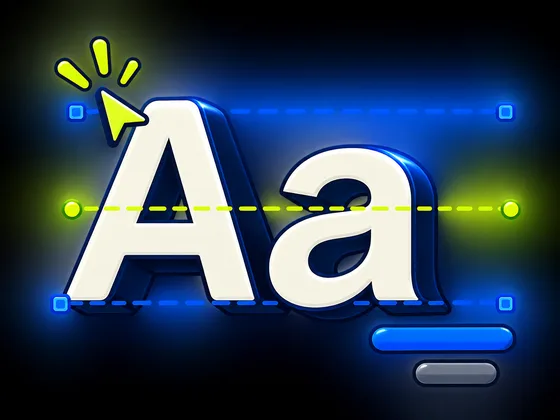
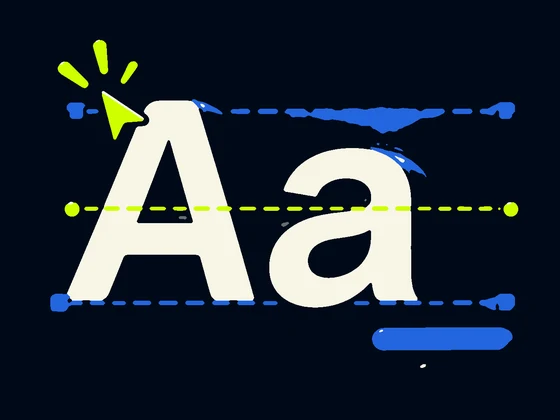
Deploy: sync site from workspace @ f68a3df

diff --git a/branding.html b/branding.html
@@ -228,13 +228,19 @@
              every one: the h3 underneath already names the thing, so a caption
              here would just be read twice. Exported at 4:3 to match .art's
              aspect-ratio, so nothing is cropped in the browser. -->
+        <!-- Supplied art, flattened here to the brand palette: it arrived
+             with 3D bevels and specular highlights that read as glossy
+             against a flat site. Every pixel is snapped to one of the six,
+             with the bloom around each shape dropped to ground, so nothing
+             is left but flat colour. Card 2 kept its drawn SVG — its bars
+             share a glow and fuse into one mass when flattened. -->
         <div class="art"><img src="assets/sys-voice.webp" width="560" height="420" loading="lazy" decoding="async" alt=""></div>
         <h3>1. Brand voice</h3>
         <p>The words that sound like you. Tone, personality and key messages &mdash; clear, consistent and unmistakably yours.</p>
       </article>
 
       <article class="scard">
-        <div class="art"><img src="assets/sys-palette.webp" width="560" height="420" loading="lazy" decoding="async" alt=""></div>
+        <div class="art"><svg viewBox="0 0 160 120" aria-hidden="true"><rect width="160" height="120" fill="#000A18"/><rect x="22" y="22" width="26" height="76" rx="4" fill="#050E1F" stroke="#2365DE" stroke-width="1.5"/><rect x="53" y="22" width="26" height="76" rx="4" fill="#2365DE"/><rect x="84" y="22" width="26" height="76" rx="4" fill="#CEFF00"/><rect x="115" y="22" width="26" height="76" rx="4" fill="#F8F5E6"/><rect x="53" y="86" width="26" height="12" rx="0" fill="#1B4EB0"/></svg></div>
         <h3>2. Colour palette</h3>
         <p>The colours that set the mood. A palette built for recognition, contrast and consistency across every surface.</p>
       </article>
